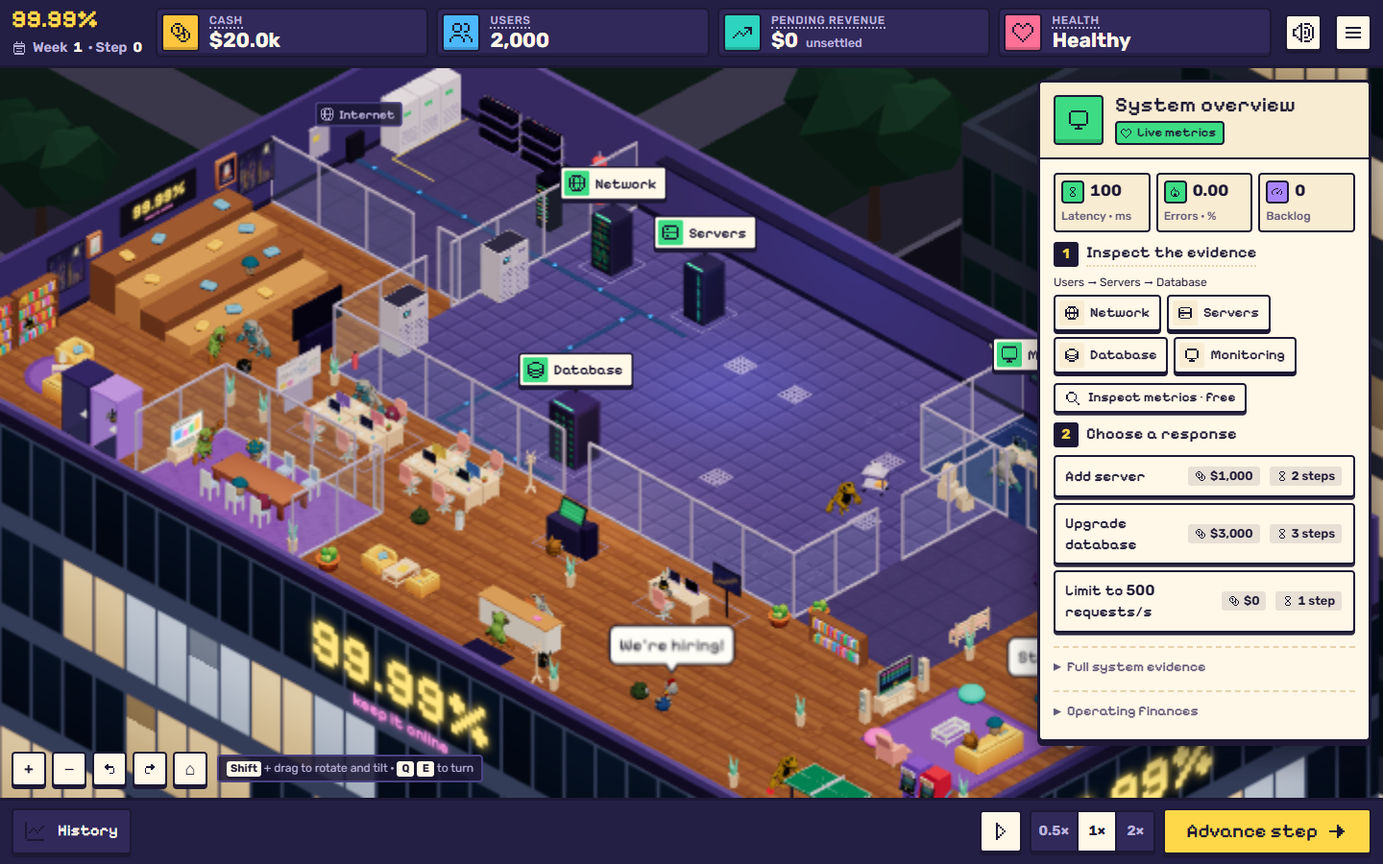
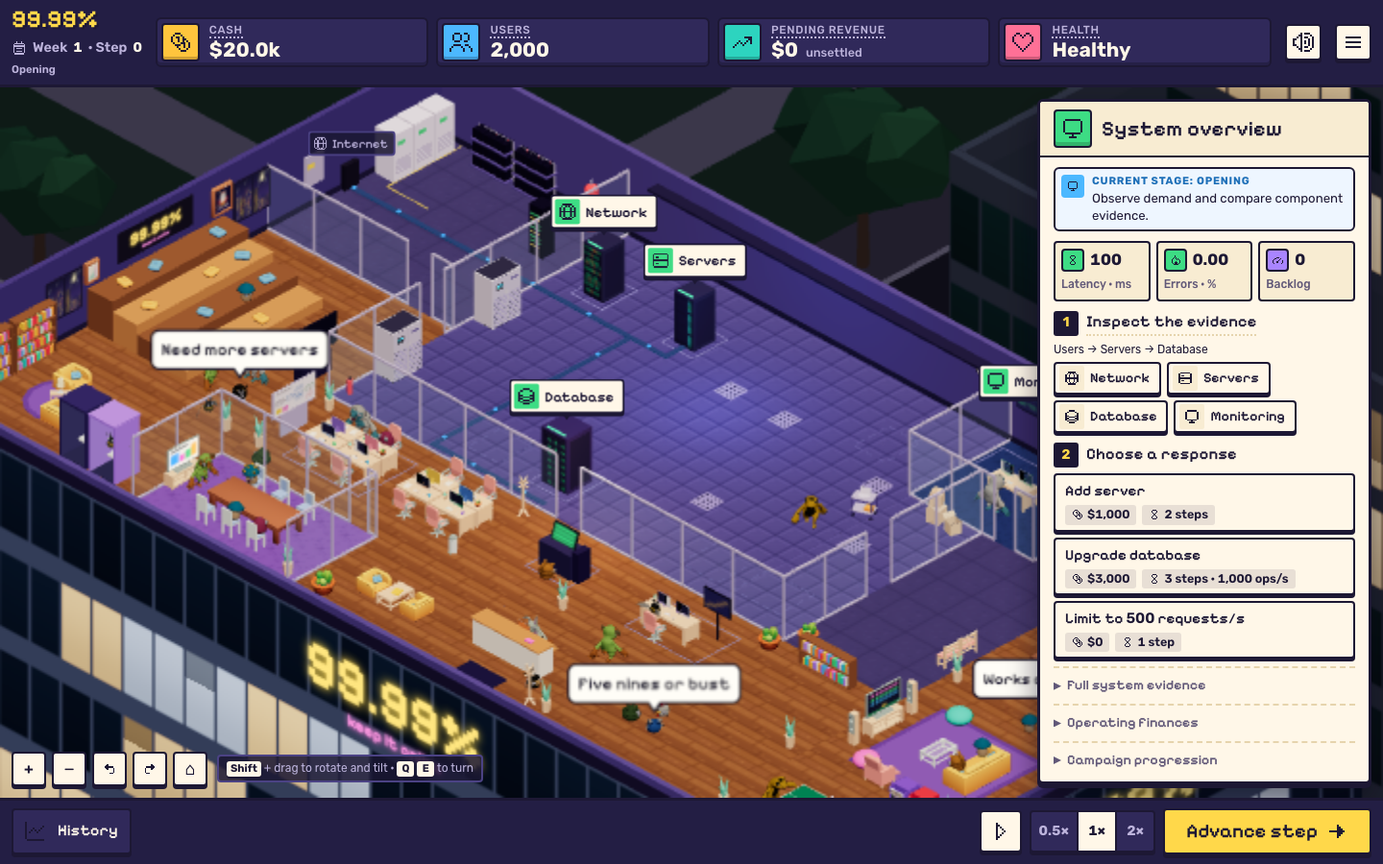
fix(ui): fit the title screen and system overview without scrolling (#33)
* fix(ui): fit the title screen and system overview without scrolling

Title: two columns on wide screens with a hidden scrollbar and room for
the focus ring. System overview: action badges wrap under the label
instead of overflowing, stage guidance leads the panel, and the
redundant Inspect metrics button is removed.

* test(e2e): scope the Monitoring tap to the system panel

diff --git a/frontend/src/components/CampaignUI.tsx b/frontend/src/components/CampaignUI.tsx
@@ -16,6 +16,7 @@ import { SoundButton } from "./SoundButton";
 import { SoundSettings } from "./SoundSettings";
 import { OPENING_DB as Q } from "@/sim/scenarios/openingDatabaseIncident";
 import type { CampaignPostmortem, Intervention } from "@/sim/campaignTypes";
+import type { GameState } from "@/sim";
 import { Icon } from "./icons";
 import { tipProps } from "./tips";
 import { EQUIPMENT_ICON } from "./presentation";
@@ -32,9 +33,14 @@ const ACTION_NAMES: Record<Intervention, string> = {
 };
 
 // Progress is derived from the engine; reading this panel never advances the run.
+function stageOf(game: GameState) {
+  const c=game.campaign!;
+  return {openingDone:!!c.openingMilestone?.acknowledged,available:!c.dataStage&&canEnterData(game)};
+}
+
 function CampaignGuidance() {
   const {game,act,onboarding}=useGame(),c=game.campaign!;
-  const openingDone=!!c.openingMilestone?.acknowledged,available=!c.dataStage&&canEnterData(game);
+  const {openingDone,available}=stageOf(game);
   const stage=c.spikeStage?"Traffic Spikes & Autoscaling":c.dataStage?"Data Strategy":openingDone?"Scaling & Routing":"Opening";
   const objective=game.phase==="ended"?"Review the company's finances and recorded evidence."
     :game.phase==="review"?"Read the postmortem before continuing the same company."
@@ -42,28 +48,33 @@ function CampaignGuidance() {
     :c.incident?"Restore stable service while weighing cost and rejected demand."
     :c.dataStage?"Compare logical work, cache hits and database pressure as demand grows."
     :openingDone?"Prepare the system for the next growth wave.":"Observe demand and compare component evidence.";
-  return <section className="panel-section campaign-guidance" aria-label="Campaign guidance">
+  return <section className="campaign-guidance" aria-label="Campaign guidance">
     <Callout compact tone="info" icon="monitor" kicker={`Current stage: ${stage}`}>{objective}</Callout>
     {canEnterSpikes(game)&&<button className="btn btn-primary" disabled={onboarding} onClick={()=>act({type:"enter_spikes"})}>Continue to traffic spikes</button>}
     {available&&<button className="btn btn-primary" disabled={onboarding} onClick={()=>act({type:"enter_data"})}>Continue to data strategy<Icon name="next" /></button>}
-    <details className="more"><summary>Campaign progression and next requirements</summary>
-      <nav aria-label="Campaign progression"><ol className="campaign-stages">
-        <li aria-current={!openingDone?"step":undefined}>Opening <strong>{openingDone?"Completed":"Current"}</strong></li>
-        <li aria-current={openingDone&&!c.dataStage?"step":undefined}>Scaling &amp; Routing <strong>{c.dataStage?"Completed":openingDone?"Current":"Locked · acknowledge opening milestone"}</strong></li>
-        <li aria-current={c.dataStage&&!c.spikeStage?"step":undefined}>Data Strategy <strong>{c.spikeStage?"Completed":c.dataStage?"Current":available?"Available next":"Locked"}</strong></li>
-        <li aria-current={c.spikeStage?"step":undefined}>Traffic Spikes &amp; Autoscaling <strong>{c.spikeStage?(c.spikeStage.acknowledged?"Completed":"Current"):canEnterSpikes(game)?"Available next":"Locked · complete data growth and restore stable service"}</strong></li>
-        <li>Later stages <strong>Locked · not implemented</strong></li>
-      </ol></nav>
-      {game.phase==="review"?<p role="status">Pending acknowledgement: Incident postmortem. Simulation remains paused.</p>
-        :c.openingMilestone&&!openingDone?<p role="status">Pending acknowledgement: First growth challenge handled.</p>
-        :!openingDone?<p>Next stage requires acknowledgement of the opening postmortem and milestone.</p>
-        :!c.scaling?<button className="btn" disabled={onboarding||game.phase==="ended"} onClick={()=>act({type:"enter_scaling"})}>Continue to scaling and routing</button>
-        :!c.scaling.consumed?<p>Database headroom: {num(c.dbCapacity)} / {num(P.dbCapacity)} ops/s. Growth waits for management and drained backlogs.</p>
-        :!c.dataStage&&!available?<p>Data strategy requires completed scaling growth, management, drained backlogs and acknowledged reports.</p>
-        :c.dataStage&&!c.dataStage.consumed?<p>Workload: Waiting for workload growth. Management, drained backlogs and acknowledged reports are required.</p>:null}
-      {c.limit!==null&&<Callout compact tone="warn" icon="network" kicker="Traffic limit active">Incoming {num(c.snapshot.incoming)} / admitted {num(c.snapshot.admitted)} / rejected {num(c.snapshot.rejected)} req/s. Rejected demand earns no revenue; its opportunity value is not an extra charge.</Callout>}
-    </details>
   </section>;
+}
+
+function CampaignProgression() {
+  const {game,act,onboarding}=useGame(),c=game.campaign!;
+  const {openingDone,available}=stageOf(game);
+  return <details className="more"><summary>Campaign progression</summary>
+    <nav aria-label="Campaign progression"><ol className="campaign-stages">
+      <li aria-current={!openingDone?"step":undefined}>Opening <strong>{openingDone?"Completed":"Current"}</strong></li>
+      <li aria-current={openingDone&&!c.dataStage?"step":undefined}>Scaling &amp; Routing <strong>{c.dataStage?"Completed":openingDone?"Current":"Locked · acknowledge opening milestone"}</strong></li>
+      <li aria-current={c.dataStage&&!c.spikeStage?"step":undefined}>Data Strategy <strong>{c.spikeStage?"Completed":c.dataStage?"Current":available?"Available next":"Locked"}</strong></li>
+      <li aria-current={c.spikeStage?"step":undefined}>Traffic Spikes &amp; Autoscaling <strong>{c.spikeStage?(c.spikeStage.acknowledged?"Completed":"Current"):canEnterSpikes(game)?"Available next":"Locked · complete data growth and restore stable service"}</strong></li>
+      <li>Later stages <strong>Locked · not implemented</strong></li>
+    </ol></nav>
+    {game.phase==="review"?<p role="status">Pending acknowledgement: Incident postmortem. Simulation remains paused.</p>
+      :c.openingMilestone&&!openingDone?<p role="status">Pending acknowledgement: First growth challenge handled.</p>
+      :!openingDone?<p>Next stage requires acknowledgement of the opening postmortem and milestone.</p>
+      :!c.scaling?<button className="btn" disabled={onboarding||game.phase==="ended"} onClick={()=>act({type:"enter_scaling"})}>Continue to scaling and routing</button>
+      :!c.scaling.consumed?<p>Database headroom: {num(c.dbCapacity)} / {num(P.dbCapacity)} ops/s. Growth waits for management and drained backlogs.</p>
+      :!c.dataStage&&!available?<p>Data strategy requires completed scaling growth, management, drained backlogs and acknowledged reports.</p>
+      :c.dataStage&&!c.dataStage.consumed?<p>Workload: Waiting for workload growth. Management, drained backlogs and acknowledged reports are required.</p>:null}
+    {c.limit!==null&&<Callout compact tone="warn" icon="network" kicker="Traffic limit active">Incoming {num(c.snapshot.incoming)} / admitted {num(c.snapshot.admitted)} / rejected {num(c.snapshot.rejected)} req/s. Rejected demand earns no revenue; its opportunity value is not an extra charge.</Callout>}
+  </details>;
 }
 
 export function CampaignHeader() {
@@ -112,9 +123,10 @@ export function CampaignPanel() {
       <header className="panel-head">
         <span className={`panel-icon${incident ? " state-critical" : ""}`}><Icon name={incident ? "incident" : "monitor"} /></span>
         <div><h2>{incident ? "Service slowdown" : "System overview"}</h2>
-          <span className={`state${incident ? " state-critical" : ""}`}><Icon name={incident ? "alert" : "health"} size={12} />{incident ? "Incident" : "Live metrics"}</span>
+          {incident && <span className="state state-critical"><Icon name="alert" size={12} />Incident</span>}
         </div>
       </header>
+      {!incident && <CampaignGuidance />}
       {c.incident && <div className="incident-clock campaign-stability">
         <div className="clock-row"><Icon name="health" /><Tip text="Recovery requires five consecutive physical steps below 500 ms and 1% service errors, with traffic and completed requests. A failing step resets this counter.">
           <strong>Stable steps: {c.incident.stableSteps}/{Q.stableSteps}</strong>
@@ -134,7 +146,6 @@ export function CampaignPanel() {
         <div className="chips">{PLACES.filter(id=>id!=="cache"||c.dataStage).map(id => <button type="button" key={id} className={`chip${place === id ? " is-selected" : ""}`} aria-pressed={place === id} disabled={disabled} onClick={() => inspectOrSelect(id)}>
           <span className="chip-icon" aria-hidden="true"><Icon name={EQUIPMENT_ICON[id]} size={16} /></span>{PLACE_NAMES[id]}
         </button>)}</div>
-        <button type="button" className="btn btn-small campaign-inspect" disabled={disabled} onClick={() => inspectOrSelect(place ?? "monitoring")}><Icon name="search" size={16} />Inspect metrics · free</button>
         {place && <div className="campaign-evidence" role="status"><Callout compact tone="info" icon={EQUIPMENT_ICON[place]} kicker={`${PLACE_NAMES[place]} · step ${m.step}`}>
           {component ? <>Demand {num(component.demand)}/s · capacity {num(component.capacity)}/s · backlog {num(component.backlog)}.</> : place === "cache" ? <>Cache {c.readCache?"deployed":"not deployed"} · effective rate used {m.data?`${m.data.effectiveHitRateUsed/100}%`:"not yet observed"} · hits {m.data?.hits??"not yet observed"}. Misses and writes reach the database.</> : place === "gateway" ? <>Incoming {num(m.incoming)}/s · admitted {num(m.admitted)}/s · rejected {num(m.rejected)}/s.</> : <>Latency {m.latencyMs.toFixed(0)} ms · errors {percent(m.serviceErrorRate)} · backlog {num(m.app.backlog + m.db.backlog)}.</>}
         </Callout></div>}
@@ -190,6 +201,8 @@ export function CampaignPanel() {
         <span>{ACTION_NAMES[a.type]}{a.targetId ? ` (${a.targetId.replace("app-", "App ")})` : ""}: activates in {a.activationStep - c.step} step(s)</span>
         <Meter value={(c.step - a.requestedStep) / (a.activationStep - a.requestedStep)} label={`${ACTION_NAMES[a.type]} activation`} />
       </div>)}
+      {/* During an incident the banner and stability meter lead; guidance follows the responses. */}
+      {incident && <CampaignGuidance />}
       {c.apps.some(a=>!a.routed) && <p className="muted">{c.apps.filter(a=>!a.routed).map(a=>a.id.replace("app-","App ")).join(", ")}: Installed, not receiving traffic</p>}
       <details className="more campaign-details"><summary>Full system evidence</summary>
         <p>Incoming <b>{m.incoming}</b> / admitted <b>{m.admitted}</b> / rejected <b>{m.rejected}</b> requests/s</p>
@@ -206,9 +219,9 @@ export function CampaignPanel() {
         <Row label="Rejected this period" value={num(c.ledger.rejected)} />
         <Row label="Opportunity value" value={dollars(c.ledger.rejected * Q.revenueCents)} tip="Revenue forgone from rejected demand, not an extra cash charge." />
       </dl></details>
+      <CampaignProgression />
     </section>
     {c.spikeStage&&<SpikeControls disabled={disabled} busy={busy}/>}
-    <CampaignGuidance />
   </aside>;
 }
 
@@ -331,16 +344,21 @@ export function CampaignOverlays() {
   const {hasRun}=useGame();
   const configured=import.meta.env.VITE_PLAYTEST_URL as string|undefined;
   const playtestUrl=configured&&/^https?:\/\//.test(configured)?configured:null;
-  if (!started) return <div className="title-screen"><div className="title-card campaign-entry">
-    <span className="title-kicker"><Icon name="server" size={16} />A system design tycoon</span>
-    <h1>99.99%</h1><p className="title-tag">Grow a startup. Keep it online.</p>
-    <p className="title-goal">Keep your company online as traffic grows, without running out of cash.</p>
-    <ul className="title-loop" aria-label="How a run works"><li><Concept kind="users" icon="search" />Inspect evidence</li><li><Concept kind="tech" icon="server" />Choose a response</li><li><Concept kind="critical" icon="incident" />Run and observe</li></ul>
-    <p className="title-goal">Click room equipment to inspect it for free. One step models one second of traffic; 60 steps settle an operating week. Run advances time, and P pauses. The first incident pauses for your response.</p>
-    <img className="gameplay-preview" src="/opening-gameplay.png" alt="The furnished office and component evidence in the playable campaign" />
-    <div className="title-actions"><button type="button" className="btn btn-primary btn-big" autoFocus onClick={play}><Icon name="play" />{hasRun ? "Continue company" : "Try Prototype"}</button></div>
-    {playtestUrl?<a className="btn" href={playtestUrl} target="_blank" rel="noopener noreferrer">Join Playtest</a>:<><button className="btn" disabled>Join Playtest</button><p className="muted">Playtest registration is not open yet.</p></>}
-    <p className="muted">Play immediately as a guest. Progress stays in this browser until you explicitly attach it to an account.</p><AccountPanel />
+  if (!started) return <div className="title-screen campaign-title"><div className="title-card campaign-entry">
+    <div className="title-copy">
+      <span className="title-kicker"><Icon name="server" size={16} />A system design tycoon</span>
+      <h1>99.99%</h1><p className="title-tag">Grow a startup. Keep it online.</p>
+      <p className="title-goal">Keep your company online as traffic grows, without running out of cash.</p>
+      <ul className="title-loop" aria-label="How a run works"><li><Concept kind="users" icon="search" />Inspect evidence</li><li><Concept kind="tech" icon="server" />Choose a response</li><li><Concept kind="critical" icon="incident" />Run and observe</li></ul>
+      <p className="title-goal">Click room equipment to inspect it for free. One step models one second of traffic; 60 steps settle an operating week. Run advances time, and P pauses. The first incident pauses for your response.</p>
+    </div>
+    <div className="title-start">
+      <img className="gameplay-preview" src="/opening-gameplay.png" alt="The furnished office and component evidence in the playable campaign" />
+      <div className="title-cta"><div className="title-actions"><button type="button" className="btn btn-primary btn-big" autoFocus onClick={play}><Icon name="play" />{hasRun ? "Continue company" : "Try Prototype"}</button>
+        {playtestUrl?<a className="btn" href={playtestUrl} target="_blank" rel="noopener noreferrer">Join Playtest</a>:<button className="btn" disabled>Join Playtest</button>}</div>
+        {!playtestUrl&&<p className="muted">Playtest registration is not open yet.</p>}</div>
+      <p className="muted">Play immediately as a guest. Progress stays in this browser until you explicitly attach it to an account.</p><AccountPanel />
+    </div>
   </div></div>;
   if(useGame.getState().onboarding) {
     const {meta,onboardingMove}=useGame.getState();

diff --git a/frontend/src/index.css b/frontend/src/index.css
@@ -1280,8 +1280,9 @@ button:disabled {
 .act {
   width: 100%;
   display: flex;
+  flex-wrap: wrap;
   align-items: center;
-  gap: 10px;
+  gap: 6px 10px;
   min-height: 44px;
   padding: 8px 12px 8px 10px;
   margin: 10px 0 0;
@@ -1299,8 +1300,19 @@ button:disabled {
     box-shadow 0.05s;
 }
 
+/* The label keeps its line; the badges move under it when a narrow panel cannot fit both. */
 .act-label {
-  flex: 1;
+  flex: 1 1 auto;
+  min-width: 0;
+  white-space: normal;
+}
+
+.act-meta {
+  display: flex;
+  flex-wrap: wrap;
+  justify-content: flex-end;
+  gap: 6px;
+  margin-left: auto;
 }
 
 .act:hover:not(:disabled) {
@@ -4287,11 +4299,30 @@ button:disabled {
    Only physical-step evidence needs additional layout. See docs/UI_DESIGN.md. */
 .campaign-stability strong { font-family: var(--font-num); font-size: 1.1rem; }
 .campaign-stability .clock-row { margin-bottom: 6px; }
-.campaign-inspect { margin-top: 10px; }
 .chip.is-selected { background: var(--go); border-color: var(--ink); }
 .campaign-evidence, .campaign-working { margin-top: 10px; }
 .campaign-panel .act { margin-top: 0; }
-.campaign-panel .act-label { white-space: normal; }
+/* The panel is narrow: every response shows its name, then its cost and delay, so the rows line up. */
+.campaign-panel .act-label { flex-basis: 100%; }
+.campaign-panel .act-meta { margin-left: 0; justify-content: flex-start; }
+/* A one-line header keeps the responses and the stage guidance in view without scrolling. */
+.campaign-panel .panel-head { gap: 10px; padding-block: 8px; }
+.campaign-panel .panel-icon { width: 40px; height: 40px; }
+.campaign-panel .panel-head > div { display: flex; flex-wrap: wrap; align-items: center; gap: 4px 10px; }
+.campaign-panel .panel-head h2 { margin: 0; }
+.campaign-guidance { display: grid; justify-items: start; gap: 8px; }
+.incident .campaign-guidance { margin-top: 10px; }
+/* Tighter rhythm than the shared defaults so the whole overview fits a laptop-height panel. */
+.campaign-panel .panel-head { margin-bottom: 10px; }
+.campaign-panel .incident-symptoms { margin-top: 10px; }
+.campaign-panel .impact { margin: 8px 0; }
+.campaign-panel .step-head { margin-bottom: 6px; }
+.campaign-panel .chips { gap: 6px; }
+.campaign-panel .chip { padding-block: 2px; }
+.campaign-panel .act { row-gap: 4px; padding-block: 5px; min-height: 0; }
+.campaign-panel .actions { gap: 6px; }
+.campaign-panel .more { margin-top: 8px; padding-top: 8px; }
+.campaign-panel .panel-section { padding-bottom: 12px; }
 .campaign-table { width: 100%; border-collapse: collapse; font-size: 0.85rem; font-variant-numeric: tabular-nums; }
 .campaign-table caption { text-align: left; padding: 8px 0; color: var(--text-soft); }
 .campaign-table th, .campaign-table td { padding: 6px; text-align: left; border-bottom: 1px solid var(--paper-3); }
@@ -4299,9 +4330,48 @@ button:disabled {
 
 .campaign-panel .step-head { margin-top: 10px; }
 .request-path { margin: 0 0 4px; font-size: 12px; }
-.campaign-entry{max-height:94vh;overflow:auto;max-width:720px}.gameplay-preview{width:100%;max-height:240px;object-fit:cover;border-radius:8px}.campaign-entry h1{font-size:clamp(24px,4vw,42px)}.modal select,.modal textarea{display:block;width:100%;padding:8px;margin:8px 0}.modal :focus-visible{outline:3px solid #426788;outline-offset:2px}
+.modal select, .modal textarea { display: block; width: 100%; padding: 8px; margin: 8px 0; }
+.modal :focus-visible { outline: 3px solid #426788; outline-offset: 2px; }
 
-.campaign-entry { max-height: calc(100dvh - 2rem); overflow-y: auto; }
+/* Campaign title: the pitch on the left, the preview and the way in on the right, so a
+   laptop screen shows everything at once. Short screens scroll the card without a scrollbar. */
+.campaign-title {
+  justify-items: center;
+  background: linear-gradient(90deg, rgb(20 17 40 / 0.97) 0%, rgb(20 17 40 / 0.92) 50%, rgb(20 17 40 / 0.78) 100%);
+}
+.campaign-entry {
+  width: 100%;
+  max-width: 1180px;
+  max-height: 100dvh;
+  overflow-y: auto;
+  scrollbar-width: none;
+  /* Keeps focus rings and pressed shadows clear of the scroll container's clipping edge. */
+  padding: 16px 12px;
+  grid-template-columns: minmax(0, 1.1fr) minmax(0, 1fr);
+  column-gap: clamp(28px, 4vw, 64px);
+  align-items: center;
+}
+.campaign-entry::-webkit-scrollbar { display: none; }
+.title-copy, .title-start { display: grid; justify-items: start; gap: 6px; min-width: 0; }
+.campaign-entry h1 { font-size: clamp(2.6rem, 5vw, 4.4rem); }
+.campaign-entry .title-goal { max-width: 42ch; }
+.campaign-entry .title-loop li { font-size: 0.95rem; }
+.campaign-entry .title-actions { align-items: center; margin: 14px 0 4px; }
+/* --text-soft is tuned for paper; on the night backdrop it needs the HUD's soft tone. */
+.campaign-entry .muted { color: var(--on-night-soft); margin: 6px 0 0; }
+.gameplay-preview { width: 100%; aspect-ratio: 16 / 10; object-fit: cover; border: 3px solid var(--ink); border-radius: 6px; box-shadow: var(--lift); }
+@media (max-width: 1000px) {
+  .campaign-entry { max-width: 620px; grid-template-columns: minmax(0, 1fr); }
+  .gameplay-preview { aspect-ratio: auto; max-height: 240px; }
+  /* One column: the way in comes before the preview, so it shows without scrolling. */
+  .title-cta { order: -1; }
+  .campaign-entry .title-actions { margin-top: 8px; }
+}
+@media (max-width: 900px) {
+  .campaign-title { align-items: end; background: linear-gradient(0deg, rgb(20 17 40 / 0.98) 0%, rgb(20 17 40 / 0.9) 60%, rgb(20 17 40 / 0.4) 100%); }
+  .campaign-title { padding-block: 0; }
+  .campaign-entry { padding: 12px 4px; }
+}
 .instance-choices { display: grid; gap: 6px; margin-top: 8px; }
 .instance-choices .chip { display: block; width: 100%; white-space: normal; text-align: left; }
 .instance-choices .chip span { display: block; font-family: var(--font-num); font-size: 0.8rem; margin-top: 4px; }

diff --git a/frontend/src/components/ui.tsx b/frontend/src/components/ui.tsx
@@ -168,16 +168,20 @@ export function Act({
     <button type="button" className={`act${primary ? " act-primary" : ""}`} onClick={onClick} disabled={disabled} data-tour={tour} {...tipProps(tip)}>
       {icon && <Icon name={icon} />}
       <span className="act-label">{label}</span>
-      {price !== undefined && (
-        <span className="price">
-          <Icon name="cash" size={12} />
-          {moneyFull(price)}
-        </span>
-      )}
-      {note && (
-        <span className="price">
-          <Icon name="latency" size={12} />
-          {note}
+      {(price !== undefined || note) && (
+        <span className="act-meta">
+          {price !== undefined && (
+            <span className="price">
+              <Icon name="cash" size={12} />
+              {moneyFull(price)}
+            </span>
+          )}
+          {note && (
+            <span className="price">
+              <Icon name="latency" size={12} />
+              {note}
+            </span>
+          )}
         </span>
       )}
     </button>

diff --git a/frontend/e2e/spikes.spec.ts b/frontend/e2e/spikes.spec.ts
@@ -3,7 +3,7 @@ import {dataCompany,spikeCompany,untilOffset} from "../src/sim/__tests__/spikeFi
 import type {Page} from "@playwright/test";
 async function blockedGuest(page:Page,g:ReturnType<typeof dataCompany>){
  const api:string[]=[];page.on("request",r=>{if(new URL(r.url()).pathname.startsWith("/api/"))api.push(r.url());});await page.route("**/api/**",r=>r.abort());
- await seedSave(page,g);await page.goto("/");await page.getByRole("button",{name:"Continue company",exact:true}).click();await expectRoom(page);await page.getByRole("region",{name:"Campaign guidance"}).locator("summary").click();return api;
+ await seedSave(page,g);await page.goto("/");await page.getByRole("button",{name:"Continue company",exact:true}).click();await expectRoom(page);await page.locator("summary").filter({hasText:"Campaign progression"}).click();return api;
 }
 async function runTo(page:Page,step:number){
  await page.getByRole("button",{name:"Run",exact:true}).click();

diff --git a/frontend/e2e/dataStrategy.spec.ts b/frontend/e2e/dataStrategy.spec.ts
@@ -15,7 +15,7 @@ for(const strategy of ["cache","database"] as const)test(`data strategy: ${strat
  test.setTimeout(150000);const api:string[]=[];page.on("request",r=>{if(new URL(r.url()).pathname.startsWith("/api/"))api.push(r.url());});await page.route("**/api/**",r=>r.abort());
  await seedSave(page,prepared());await page.goto("/");await page.getByRole("button",{name:"Continue company",exact:true}).click();await expectRoom(page);
  const guidance=page.getByRole("region",{name:"Campaign guidance"});
- await guidance.locator("summary").click();
+ await page.locator("summary").filter({hasText:"Campaign progression"}).click();
  await expect(page.getByRole("navigation",{name:"Campaign progression"})).toContainText("Data Strategy Available next");
  await page.getByRole("button",{name:"Continue to data strategy",exact:true}).click();
  await expect(guidance).toContainText("Current stage: Data Strategy");

diff --git a/frontend/e2e/mobile.spec.ts b/frontend/e2e/mobile.spec.ts
@@ -9,7 +9,7 @@ test("inspects evidence and advances a physical step on touch", async ({ page })
   const mute = page.getByRole("button", { name: "Mute sound", exact: true });
   await mute.tap(); await expect(mute).toHaveAttribute("aria-pressed", "true");
   await page.screenshot({ path: "test-results/phase1-mobile.png" });
-  await page.getByRole("button", { name: "Inspect metrics · free" }).tap();
+  await page.getByRole("complementary", { name: "System metrics" }).getByRole("button", { name: "Monitoring", exact: true }).tap();
   await page.getByRole("button", { name: "Advance step" }).tap();
   expect((await savedGame(page)).campaign!.step).toBe(1);
   await page.getByRole("button", { name: "History", exact: true }).tap();

diff --git a/frontend/src/App.test.tsx b/frontend/src/App.test.tsx
@@ -12,7 +12,7 @@ describe("opening UI", () => {
     fireEvent.click(screen.getByRole("button", { name: "Try Prototype" })); fireEvent.click(screen.getByRole("button", { name: "Skip introduction" }));
     expect(screen.getByRole("complementary", { name: "System metrics" })).toBeTruthy();
     expect(screen.queryByRole("button", { name: "Tech" })).toBeNull();
-    fireEvent.click(screen.getByRole("button", { name: "Inspect metrics · free" }));
+    fireEvent.click(screen.getByRole("button", { name: "Monitoring" }));
     expect(useGame.getState().game.campaign!.step).toBe(0);
     expect(useGame.getState().meta.runsStarted).toBe(1);
   });

diff --git a/frontend/e2e/gameplay.spec.ts b/frontend/e2e/gameplay.spec.ts
@@ -37,7 +37,7 @@ for (const path of ["upgrade", "limit", "app-then-upgrade"] as const) {
     }
     const opening = (await savedGame(page)).campaign!;
     expect(opening.step).toBe(6);
-    await page.getByRole("button", { name: "Inspect metrics · free" }).click();
+    await page.getByRole("complementary", { name: "System metrics" }).getByRole("button", { name: "Monitoring", exact: true }).click();
     if (path === "app-then-upgrade") {
       await page.getByRole("button", { name: /Add server/ }).click();
       await page.getByRole("button", { name: "Run", exact: true }).click();

diff --git a/frontend/e2e/sound.spec.ts b/frontend/e2e/sound.spec.ts
@@ -43,7 +43,7 @@ test("sounds the company starting, each introduction prompt and the alarm, and n
   await expect.poll(voices).toBeGreaterThanOrEqual(introduced + 3);
   const alarm = await voices();
   const mute = page.getByRole("button", { name: "Mute sound", exact: true });
-  const inspect = page.getByRole("button", { name: "Inspect metrics · free" });
+  const inspect = page.getByRole("complementary", { name: "System metrics" }).getByRole("button", { name: "Monitoring", exact: true });
   await mute.click();
   await inspect.click();
   await page.waitForTimeout(300);

diff --git a/docs/UI_DESIGN.md b/docs/UI_DESIGN.md
@@ -28,8 +28,10 @@ Paths in this table are under `frontend/src/`. Shared vocabulary lives in `prese
 ## Screen structure
 
 - **Title:** room remains behind the overlay; show the title kicker, game name, short goal, three icon-led steps and a prominent Play/Continue button. Explain the current mode's loop and time units briefly. Do not carry Classic's 26-week target into Campaign.
+  Campaign's title is two columns on wide screens: the pitch on the left, the gameplay preview and the way in on the right, so a laptop screen shows it without scrolling.
+  On one column the Play/Continue button comes before the preview.
 - **Top bar:** the brand at the left (Campaign adds its current stage under it), four familiar metric tiles, then the sound mute and Menu. The week or incident clock is not here: it sits in the bottom bar beside the buttons that advance it, so the player does not look across the screen between reading the time and moving it on. Health changes to the incident icon and the whole header gets the red striped treatment during an incident. Campaign pending revenue must be clearly distinguished from available cash and settled revenue.
-- **Management:** room equipment is clickable. Selecting it gives immediate visible feedback with its name, icon and authoritative metrics. Campaign can keep a compact system overview visible because only a few opening actions exist.
+- **Management:** room equipment is clickable. Selecting it gives immediate visible feedback with its name, icon and authoritative metrics. Campaign can keep a compact system overview visible because only a few opening actions exist. Outside incidents the stage objective leads the overview; during an incident it follows the responses. Response rows show the name, then cost and delay badges underneath, so the narrow panel never scrolls horizontally. At 1440 × 900 the healthy overview fits without scrolling when its disclosures are closed.
 - **Incident:** retain the red banner and symptom-focused title, a compact progress area, three impact tiles, then the numbered jobs **1. Inspect the evidence** and **2. Choose a response**. Equipment controls mirror the room. Selected equipment is highlighted and its latest observation is shown. Keep the permitted responses equally prominent; no full metrics table before the response list.
 - **Bottom bar:** view tabs on the left; on the right the time readout, then the play/pause icon, selected speed and primary advance action. The readout is Classic's "Week n/26" with its 26-block progress track, Campaign's "Week · Step", or "Incident" with its clock, and it takes the red blinking icon during an incident. Below 640 px the readout takes its own row above the tabs and buttons, with the track filling the row, rather than squeezing the advance button. Keep accessible names for icon-only buttons. Use labels that match the mode's actual time model.
 - **Review:** report in a shared modal with outcome tag, time range, spending and evidence-based explanations. Raw snapshots belong in a disclosure. Continue returns to the same company.
